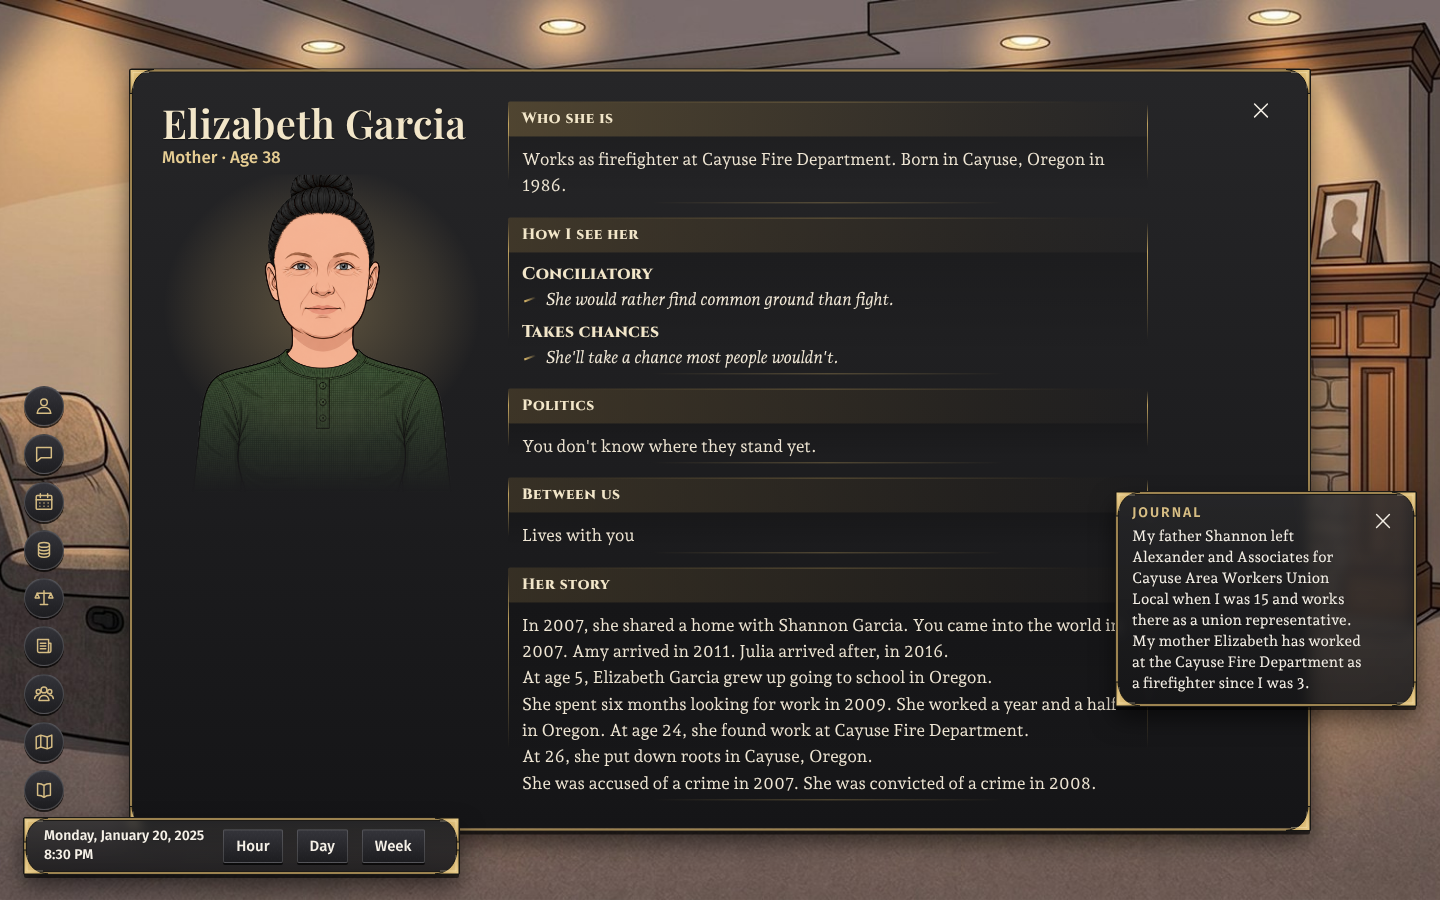
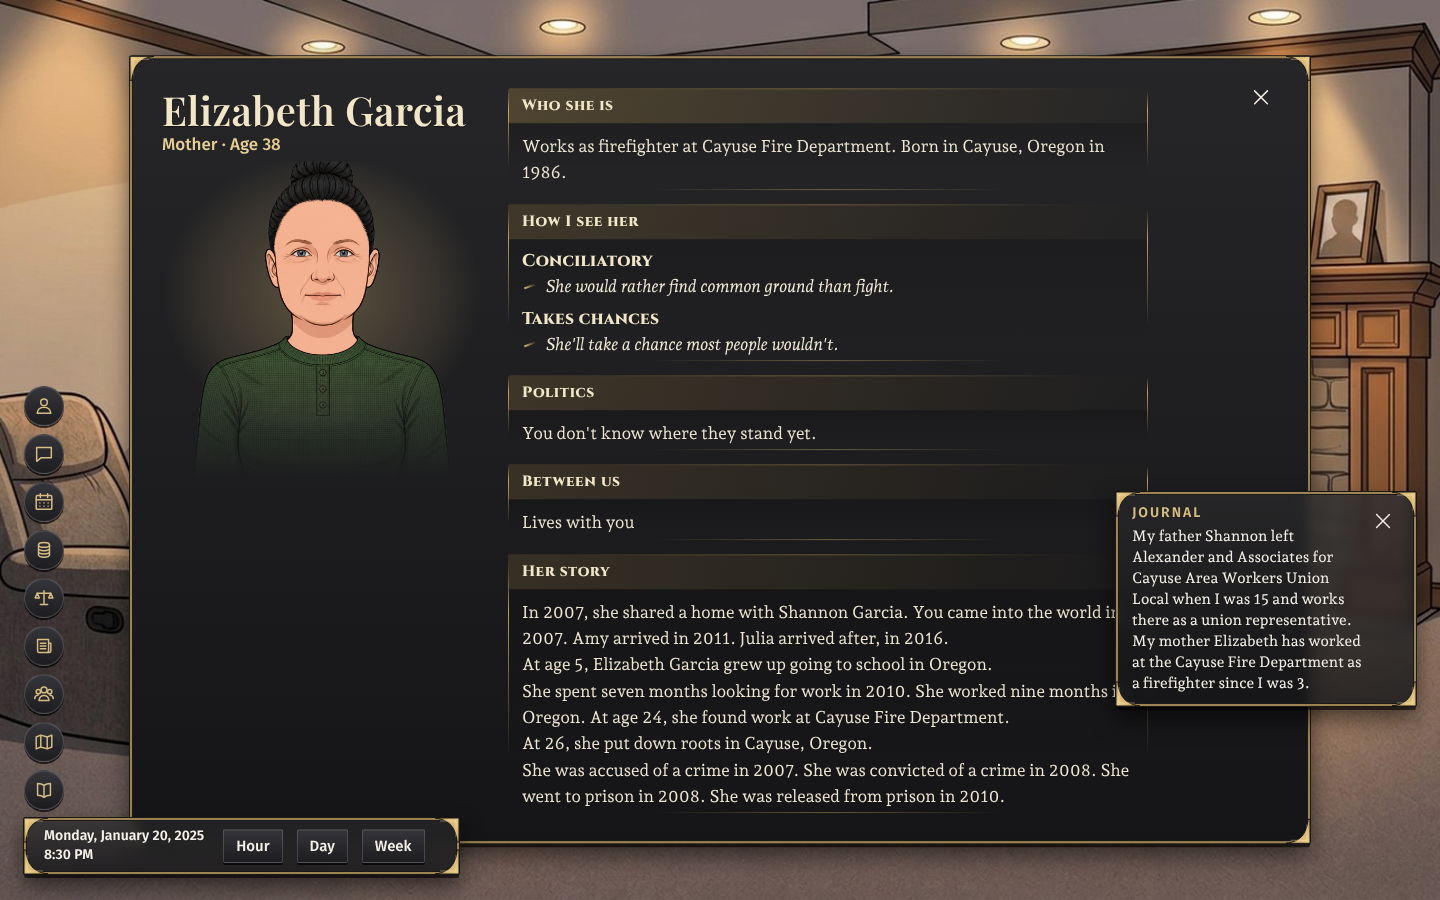
Life record part 12: the card pictures with prison terms (docs/seen)
Claude-Session: https://claude.ai/code/session_011uWUjY6561hKSSWbu4rnce

diff --git a/docs/seen/life-record-arrest/README.md b/docs/seen/life-record-arrest/README.md
@@ -2,12 +2,12 @@
 
 The owner, Nov 8, 2026: "None of my history is simulated. I can't see anything that my character went through." The gap sheet of Nov 12 (row 4) found that no past held an arrest.
 
-Each picture is a card a player opens from "Who I am" on the first evening. Before is main at fd590ccd87; after is the arrest branch at 024ad74730. Every line on each card is in the `lines.md` beside its picture. The lines are the law lines already in the bank.
+Each picture is a card a player opens from "Who I am" on the first evening. Before is main at fd590ccd87; after is the arrest branch at 628eaf515e and later, with prison terms the work pass steps around. Every line on each card is in the `lines.md` beside its picture. The lines are the law lines already in the bank.
 
-| Place and seed                              | Card                                      | Before       | After                                                                       |
-| ------------------------------------------- | ----------------------------------------- | ------------ | --------------------------------------------------------------------------- |
-| Cayuse, Oregon (seed lrcard01)              | Elizabeth Garcia, the mother, 38          | No law line. | "She was accused of a crime in 2007. She was convicted of a crime in 2008." |
-| Diamondville, Wyoming (seed lrcard04)       | Caleb Farmer, at home                     | No law line. | "He was accused of a crime in 2019."                                        |
-| Hidden Lake Colony, Montana (seed lrcard06) | The player, Blair Walter, 17 ("Who I am") | No law line. | "I was accused of a crime in 2020." He was 13.                              |
+| Place and seed                              | Card                                      | Before       | After                                                                                                                                                                                                                                                                                                                                 |
+| ------------------------------------------- | ----------------------------------------- | ------------ | ------------------------------------------------------------------------------------------------------------------------------------------------------------------------------------------------------------------------------------------------------------------------------------------------------------------------------------- |
+| Cayuse, Oregon (seed lrcard01)              | Elizabeth Garcia, the mother, 38          | No law line. | "She was accused of a crime in 2007. She was convicted of a crime in 2008. She went to prison in 2008. She was released from prison in 2010." Her work now reads "She spent seven months looking for work in 2010", after her release; before the work pass read the term, it had her looking for work in 2009, while she was inside. |
+| Diamondville, Wyoming (seed lrcard04)       | Caleb Farmer, at home                     | No law line. | "He was accused of a crime in 2019."                                                                                                                                                                                                                                                                                                  |
+| Hidden Lake Colony, Montana (seed lrcard06) | The player, Blair Walter, 17 ("Who I am") | No law line. | "I was accused of a crime in 2020." He was 13.                                                                                                                                                                                                                                                                                        |
 
 The third is the player's own card, which is the open owner question on the pull request: whether the player's own character may start with an arrest.

diff --git a/docs/seen/life-record-arrest/after/cayuse-oregon-lines.md b/docs/seen/life-record-arrest/after/cayuse-oregon-lines.md
@@ -40,9 +40,9 @@ Lives with you
 Her story
 In 2007, she shared a home with Shannon Garcia. You came into the world in 2007. Amy arrived in 2011. Julia arrived after, in 2016.
 At age 5, Elizabeth Garcia grew up going to school in Oregon.
-She spent six months looking for work in 2009. She worked a year and a half in Oregon. At age 24, she found work at Cayuse Fire Department.
+She spent seven months looking for work in 2010. She worked nine months in Oregon. At age 24, she found work at Cayuse Fire Department.
 At 26, she put down roots in Cayuse, Oregon.
-She was accused of a crime in 2007. She was convicted of a crime in 2008.
+She was accused of a crime in 2007. She was convicted of a crime in 2008. She went to prison in 2008. She was released from prison in 2010.
 == Shannon Garcia
 Shannon Garcia
 Shannon Garcia
